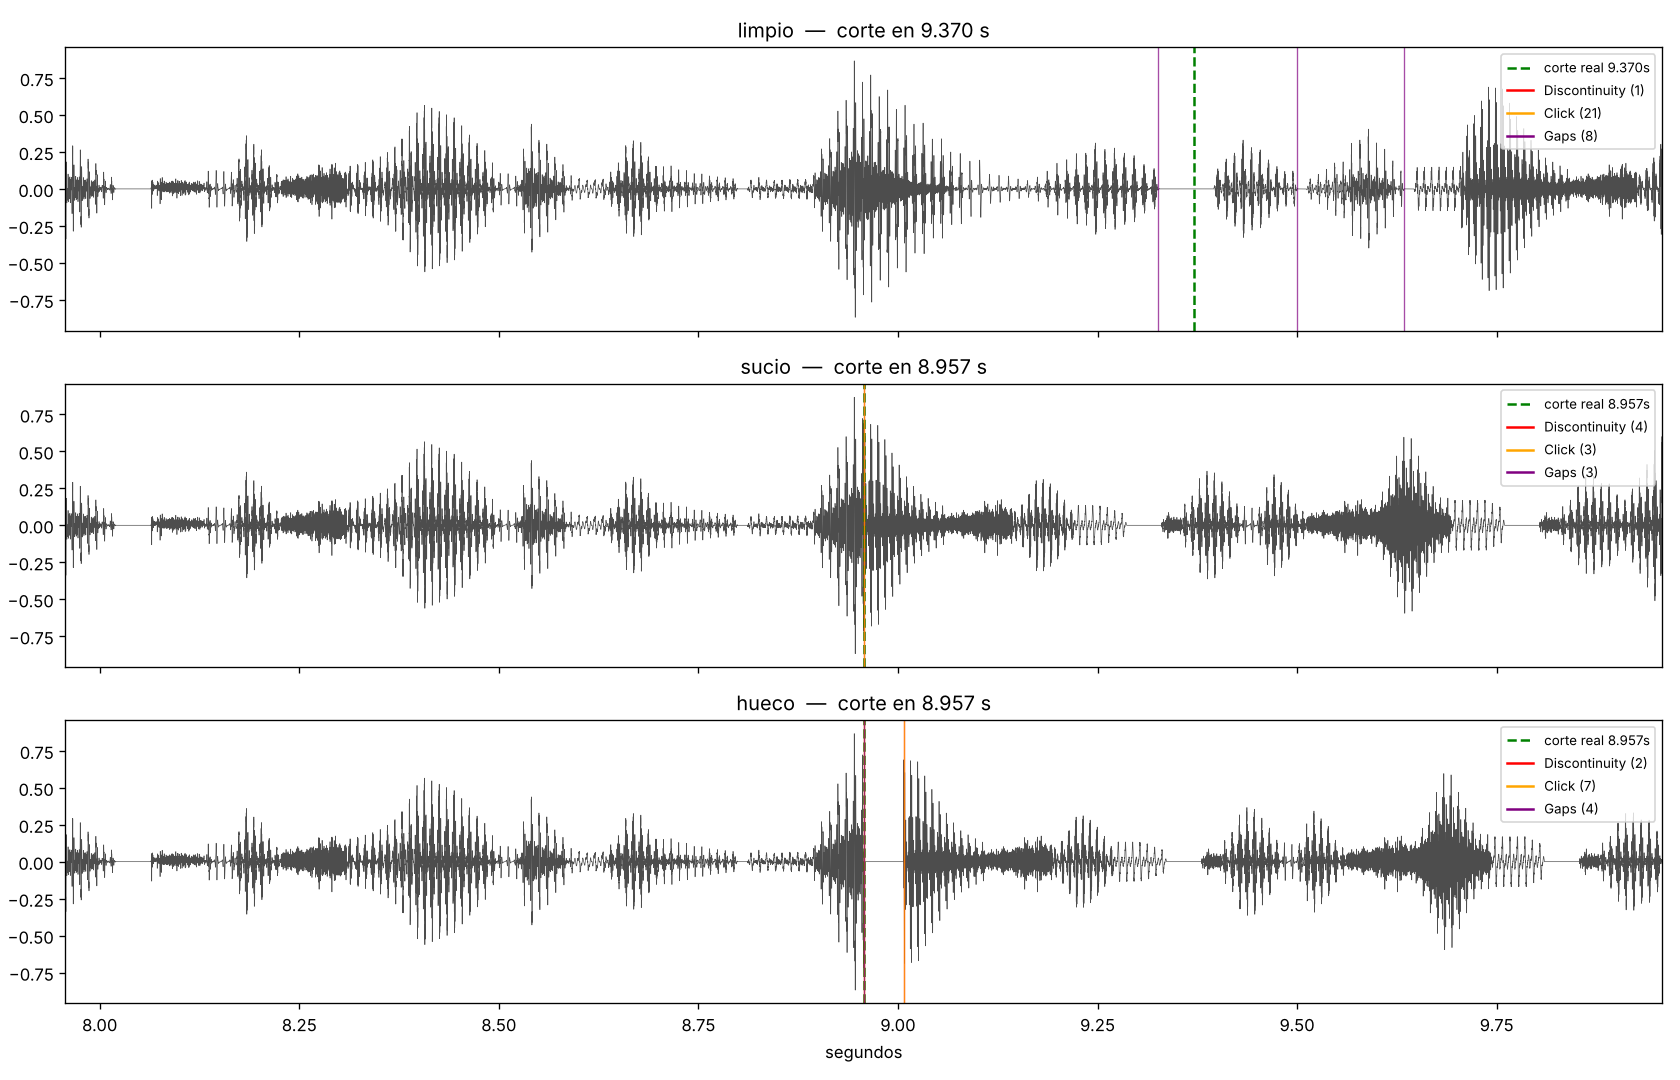
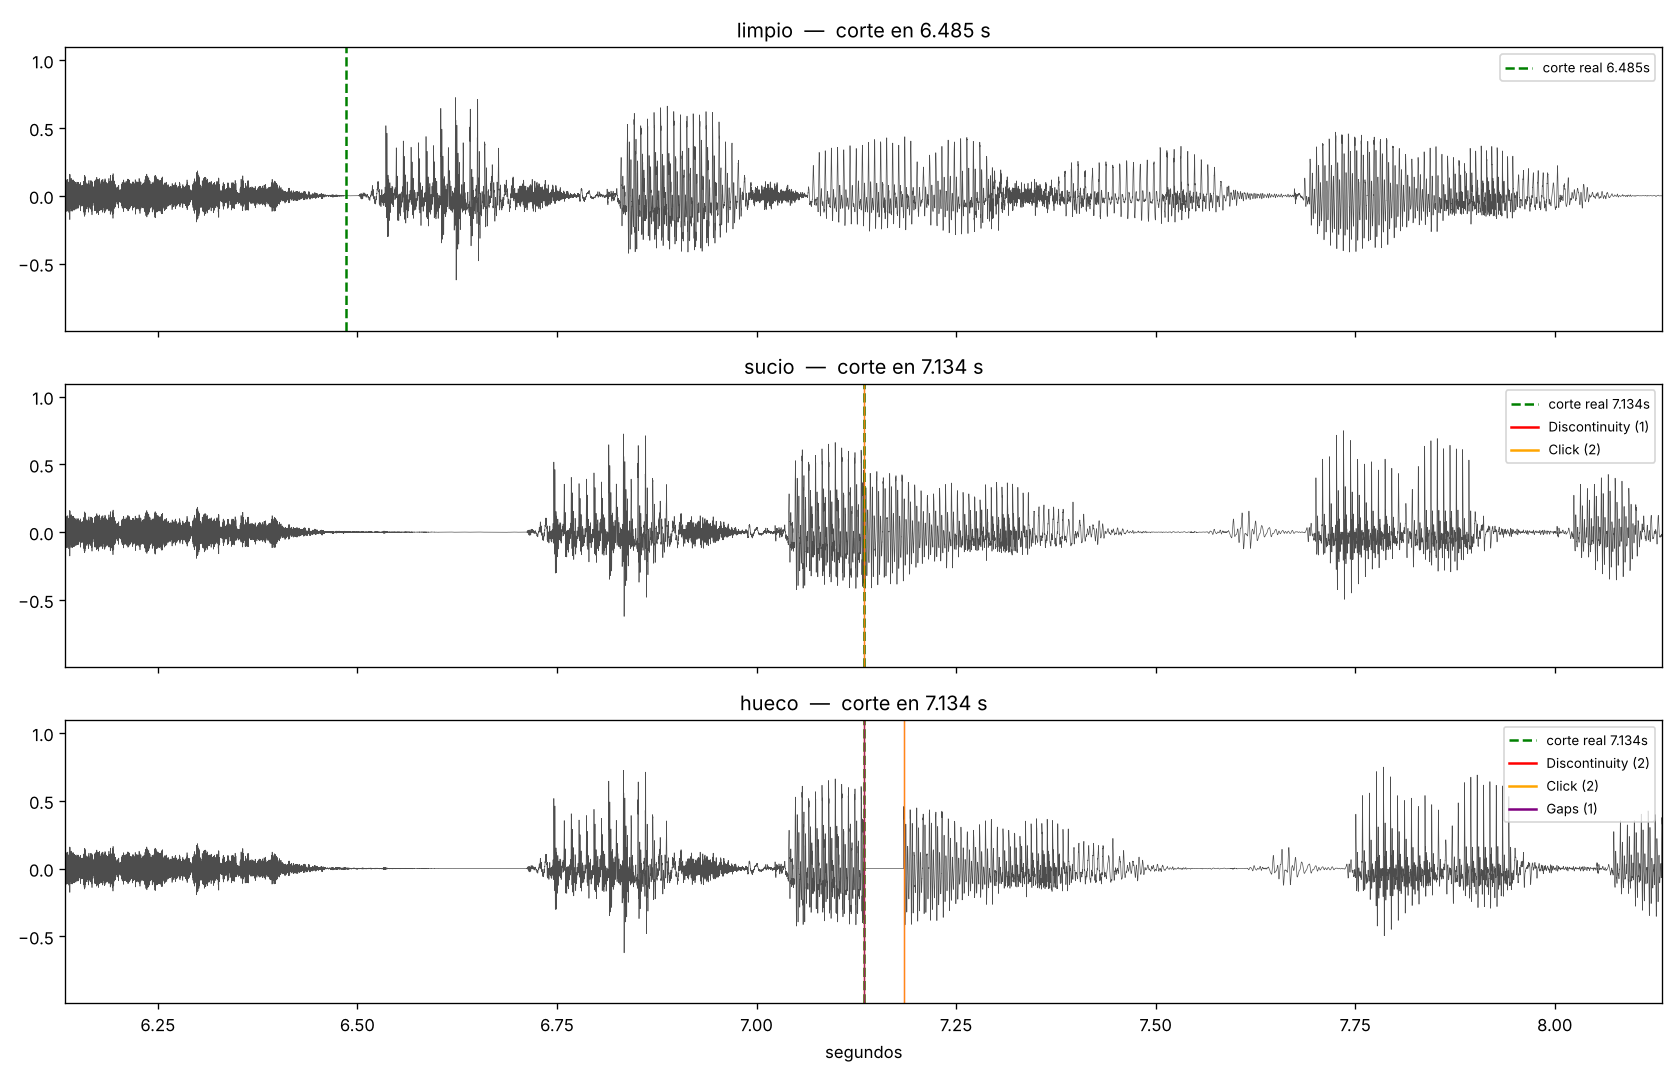
Validar prototipo Essentia con voz real: cero falsos positivos
Claude-Session: https://claude.ai/code/session_0197oYcTmAs9aoHnvoYJW9nv

diff --git a/prototipos/essentia-cortes/README.md b/prototipos/essentia-cortes/README.md
@@ -30,11 +30,21 @@ Salida en `salida/`: `limpio.wav`, `sucio.wav`, `hueco.wav`, `detecciones.png` y
 
 Imagen: `salida/detecciones.png` (zoom ±1 s alrededor del corte).
 
+## Resultado con voz real (nota de WhatsApp, Opus 48 kHz, 15.1 s, nov 2026)
+| Versión | VozAmbosLados | Discontinuity | Click | Gaps |
+|---|---|---|---|---|
+| original sin tocar | - | 0 | 0 | 0 |
+| limpio | no | 0 | 0 | 0 |
+| sucio | **SÍ** | **SÍ, exacto** | **SÍ, exacto** | 0 |
+| hueco | no | **SÍ, ambos bordes** | SÍ, ambos bordes | **SÍ, exacto** |
+
+Imagen: `salida/detecciones_voz_real.png`. **Cero falsos positivos en los tres detectores** con los umbrales por defecto, tanto en el audio intacto como en el corte limpio. Los falsos de ClickDetector y GapsDetector eran un artefacto de la voz sintética, no un problema de calibración. Audio con compresión fuerte (20 kbps) y pico a 0 dBFS, es decir, condiciones peores que el video real.
+
 ## Conclusiones
 1. **DiscontinuityDetector es el detector principal.** Cero falsos en el corte limpio, acierto exacto en sucio y hueco con los umbrales por defecto.
 2. **Un corte en medio de una palabra puede ser físicamente continuo.** En una corrida anterior el empalme vocal→vocal cayó por azar en un punto donde la onda casi no salta (de -0.199 a -0.187) y ningún detector lo vio. Por eso se añadió `VozAmbosLados`: energía de voz 30 ms antes y 30 ms después del corte. Esa métrica es la que detecta "corté en medio del habla" aunque la onda sea suave.
-3. **ClickDetector necesita calibración con voz real.** La voz de espeak-ng tiene pulsos glotales que parecen clics; dispara 12–21 falsos en el limpio. Subir `detectionThreshold` a 40+ elimina también el verdadero. Se calibra en Fase 2 con cortes reales de Charlie.
-4. **GapsDetector no sirve con voz sintética** porque espeak produce silencio digital en cada pausa natural. En una grabación real hay ruido de sala y las pausas no son ceros, así que debería comportarse mejor. Pendiente de confirmar con la muestra.
+3. **ClickDetector y GapsDetector funcionan en voz real sin calibrar.** Los falsos que daban con espeak-ng (pulsos glotales que parecen clics, silencio digital en las pausas) desaparecen con una grabación real. Los umbrales por defecto quedan como punto de partida para Fase 2.
+4. **Confirmar con audio del video de Charlie** (micrófono y compresión distintos) antes de dar los umbrales por definitivos.
 5. **Lo que no puede hacer ninguna de estas capas:** saber si la palabra quedó completa. Eso lo da el diff de re-transcripción (capa 1 del auditor) y la opinión del modelo de audio nativo (capa A).
 
 ## Parámetros que quedaron
